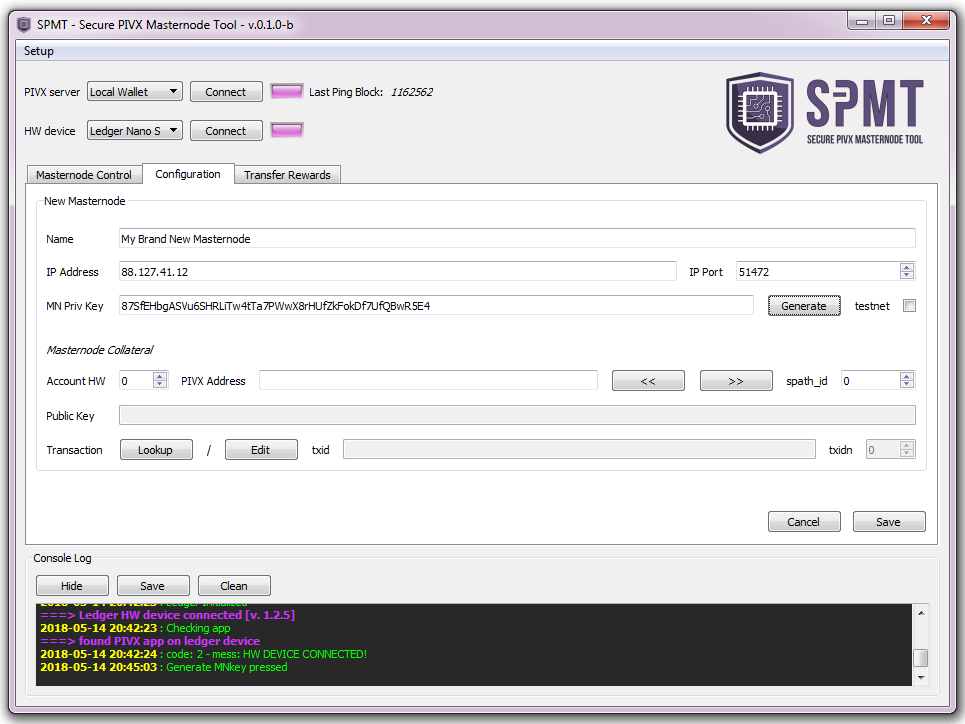
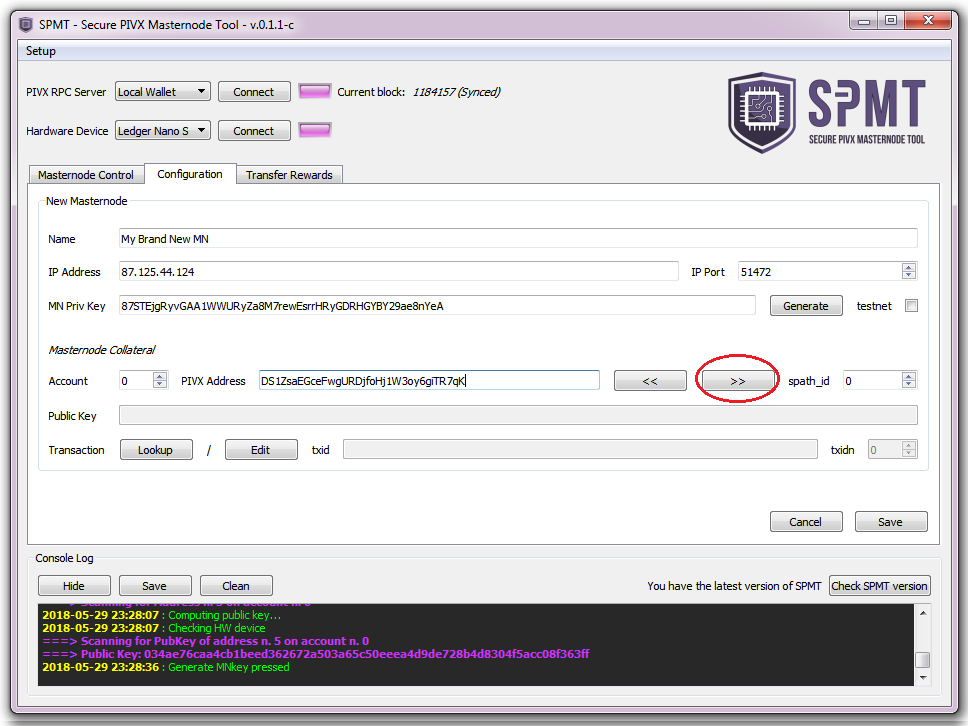
update README

Changed region(s): [[0.0, 0.0, 0.9948, 1.0], [0.715, 0.3646, 0.8083, 0.395], [0.5907, 0.5166, 0.6218, 0.547]]

diff --git a/README.md b/README.md
@@ -12,6 +12,7 @@ SPMT: Secure Pivx Masternode Tool is a software to securely manage multiple PIVX
   - [Getting masternode status](#features1)
   - [Starting masternode](#features2)
   - [Spending masternode rewards](#features3)
+    - [Sweeping all masternode rewards](#features4)
 * [Coming Soon](#comingsoon)
 * [Credits](#credits)
 
@@ -58,17 +59,17 @@ Otherwise set the IP address of the machine running the Core PIVX wallet.
 
 #### <a name="setup2"></a>Connections
 If the IP and the credentials of the PIVX wallet are correct, it should connect with SPMT instantly.<br>
-Otherwise use the `Connect` button next to "PIVX server: Local Wallet".<br>
+Otherwise use the `Connect` button next to "PIVX RPC server: Local Wallet".<br>
 Connect the hardware device to USB and open the PIVX-App on it.<br>
 
-Click the button `Connect` next to "HW device: Ledger Nano S" to connect to the hardware device.
+Click the button `Connect` next to "Hardware Device: Ledger Nano S" to connect to the hardware device.
 <br><img src="doc/img/03.png" width="670"><br><br>
 
-Once successfully connected, it gives a confirmation message and the led turns purple.
+Once successfully connected, it gives a confirmation message and the light turns purple.
 <br><img src="doc/img/04.png" width="670"><br><br>
 
 #### <a name="setup3"></a>Setting up a Masternode configuration
-Click on `New Masternode` and fill all the informations of the remote node: 
+Click `New Masternode` (big button below the list) and fill all the informations of the remote node: 
  - <b>Name</b> : an alias for the masternode entry
  - <b>IP Address / IP Port</b> : Public IP address and port of the remote masternode
  - <b>MN Priv Key</b> : masternode private key. If you have already seup the remote node, copy here the `masternodeprivkey` from the pivx.conf file.<br>
@@ -80,6 +81,12 @@ If you have just one account in your Ledger wallet, leave account number to `0`.
 Then click `>>` to look for path and public key.
 <br><img src="doc/img/05.png" width="670"><br><br>
 
+The tool looks for the public key and path of the given address (in batches of 10 paths per scan, asking confirmation to continue if needed). 
+When found, a notification message is displayed.
+<br><img src="doc/img/05b.png" width="670"><br><br>
+
+If the user already knows the correct `spath_id` (address number) he can, instead, insert it and click `<<` to look for the corresponding address and public key.<br><br>
+
 Click `Lookup` to find the collateral TxHash or click `Edit` to fill it manually, and then `OK`.<br>
 Click `Save` to save the configuration and go back to main view.
 <br><img src="doc/img/06.png" width="670"><br><br>
@@ -87,7 +94,7 @@ Click `Save` to save the configuration and go back to main view.
 
 ## <a name="features"></a>Features
 ### <a name="features1"></a>Getting masternode status
-Click on `Get Status For All` to inspect the status of all masternode entries or click the dashboard icon next to a particular entry to get status for that one.
+Click on `Get Status For All Masternodes` to inspect the status of all masternode entries.
 <br><img src="doc/img/07.png" width="670"><br><br>
 
 To inspect the status details click on the little magnifying glass icon.
@@ -134,13 +141,36 @@ If everything checks out, click "yes" (right button) on the device.
 <br><img src="doc/img/19.png" width="670"><br><br>
 
 The transaction is now assembled and signed.<br>
-SPMT asks one more time to check the details before broadcasting the transaction (thus spending the selected rewards).
+SPMT asks one more time to check the details before broadcasting the transaction (thus spending the selected rewards).<br>
+Click `Show Details` to inspect the decoded raw transaction.
 <br><img src="doc/img/20.png" width="670"><br><br>
 
 Click `Yes` to finally broadcast the transaction to the PIVX network.<br>
 Click `Show Details` to get the TX-id that identify the transaction.<br>
 It should appear on the Block Explorers and on the receiving wallet after a few seconds.
 <br><img src="doc/img/21.png" width="670"><br><br>
+
+
+#### <a name="features4"></a>Sweeping all masternode rewards
+With this feature it is possible to send all rewards from all masternodes in list with a single TX (provided it doesn't get too big).<br>
+<br>
+Click on `Sweep All Rewards` to open the summary dialog.
+<br><img src="doc/img/22.png" width="670"><br><br>
+
+Insert the destination address, adjust the fee and click `Send`
+<br><img src="doc/img/23.png" width="670"><br><br>
+
+Preparing the TX is an expensive operation. The more rewards included, the more time is needed. 
+<br><img src="doc/img/24.png" width="670"><br><br>
+
+Eventually SPMT shows the confirmation dialog
+<br><img src="doc/img/25.png" width="670"><br><br>
+
+Signing all the inputs is time consuming as well.<br>
+If the operation is too long, try sending separate TXs first.<br>
+After some time it prompts the usual message
+<br><img src="doc/img/26.png" width="670"><br><br>
+
 
 ## <a name="comingsoon"></a>Coming soon
 - Voting
